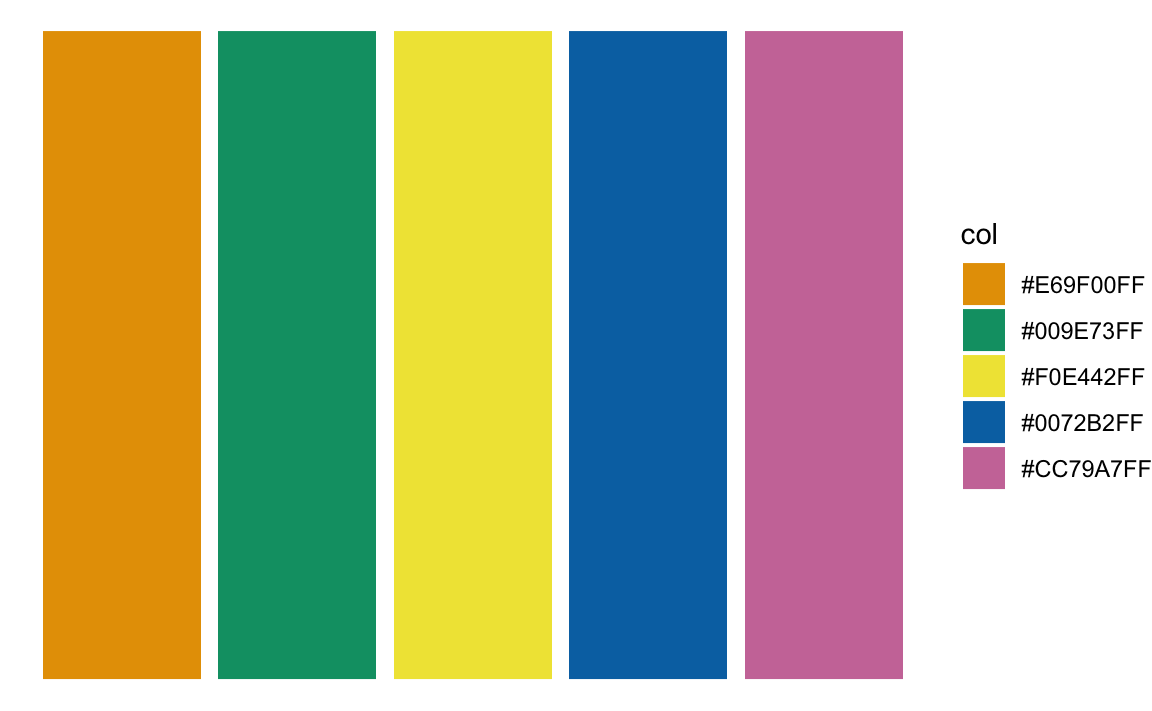
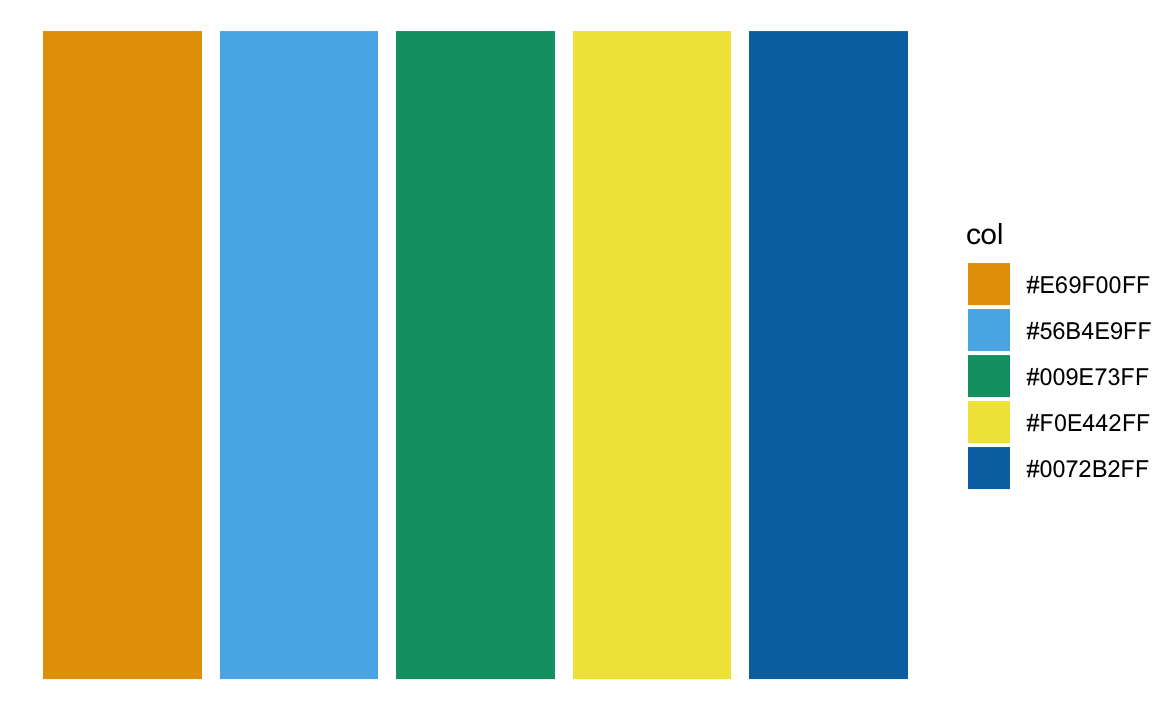
update

diff --git a/content/post/2023-06-30-farbpaletten/index.html b/content/post/2023-06-30-farbpaletten/index.html
@@ -173,26 +173,28 @@ ggplot(d) +
 <pre class="r"><code>paletteer_d(&quot;colorblindr::OkabeIto&quot;)
 #&gt; &lt;colors&gt;
 #&gt; #E69F00FF #56B4E9FF #009E73FF #F0E442FF #0072B2FF #D55E00FF #CC79A7FF #999999FF</code></pre>
+<pre class="r"><code>paletteer_d(&quot;colorblindr::OkabeIto&quot;) %&gt;% show_cols()</code></pre>
+<p><img src="{{< blogdown/postref >}}index_files/figure-html/unnamed-chunk-25-1.png" width="100%" style="display: block; margin: auto;" /></p>
 <p>Sagen wir uns gefallen die folgenden 5 Farben daraus:</p>
 <pre class="r"><code>okebeito_auswahl &lt;- paletteer_d(&quot;colorblindr::OkabeIto&quot;)[c(1,3,4,5,7)]
 okebeito_auswahl
 #&gt; &lt;colors&gt;
 #&gt; #E69F00FF #009E73FF #F0E442FF #0072B2FF #CC79A7FF</code></pre>
 <pre class="r"><code>okebeito_auswahl %&gt;%  show_cols()</code></pre>
-<p><img src="{{< blogdown/postref >}}index_files/figure-html/unnamed-chunk-26-1.png" width="100%" style="display: block; margin: auto;" /></p>
+<p><img src="{{< blogdown/postref >}}index_files/figure-html/unnamed-chunk-27-1.png" width="100%" style="display: block; margin: auto;" /></p>
 <p>Es gibt ein R-Paket, <a href="https://malcolmbarrett.github.io/ggokabeito/"><code>ggokebito</code></a>, das die Farbwahl für ggplot verfügbar macht.</p>
 <pre class="r"><code>library(ggokabeito)
 
 ggplot(mpg, aes(cty, hwy, color = class)) +
   geom_point() +
   scale_color_okabe_ito()</code></pre>
-<p><img src="{{< blogdown/postref >}}index_files/figure-html/unnamed-chunk-27-1.png" width="100%" style="display: block; margin: auto;" /></p>
+<p><img src="{{< blogdown/postref >}}index_files/figure-html/unnamed-chunk-28-1.png" width="100%" style="display: block; margin: auto;" /></p>
 <p>Oder für Füllfarben:</p>
 <pre class="r"><code>ggplot(mpg, aes(hwy, color = class, fill = class)) +
   geom_density() +
   scale_fill_okabe_ito(name = &quot;Class&quot;, alpha = .9) +
   scale_color_okabe_ito(name = &quot;Class&quot;)</code></pre>
-<p><img src="{{< blogdown/postref >}}index_files/figure-html/unnamed-chunk-28-1.png" width="100%" style="display: block; margin: auto;" /></p>
+<p><img src="{{< blogdown/postref >}}index_files/figure-html/unnamed-chunk-29-1.png" width="100%" style="display: block; margin: auto;" /></p>
 <p>Die Farbnamen findet man z.B. <a href="https://mikemol.github.io/technique/colorblind/2018/02/11/color-safe-palette.html">hier</a>.</p>
 </div>
 <div id="farbnamen" class="section level1" number="15">
